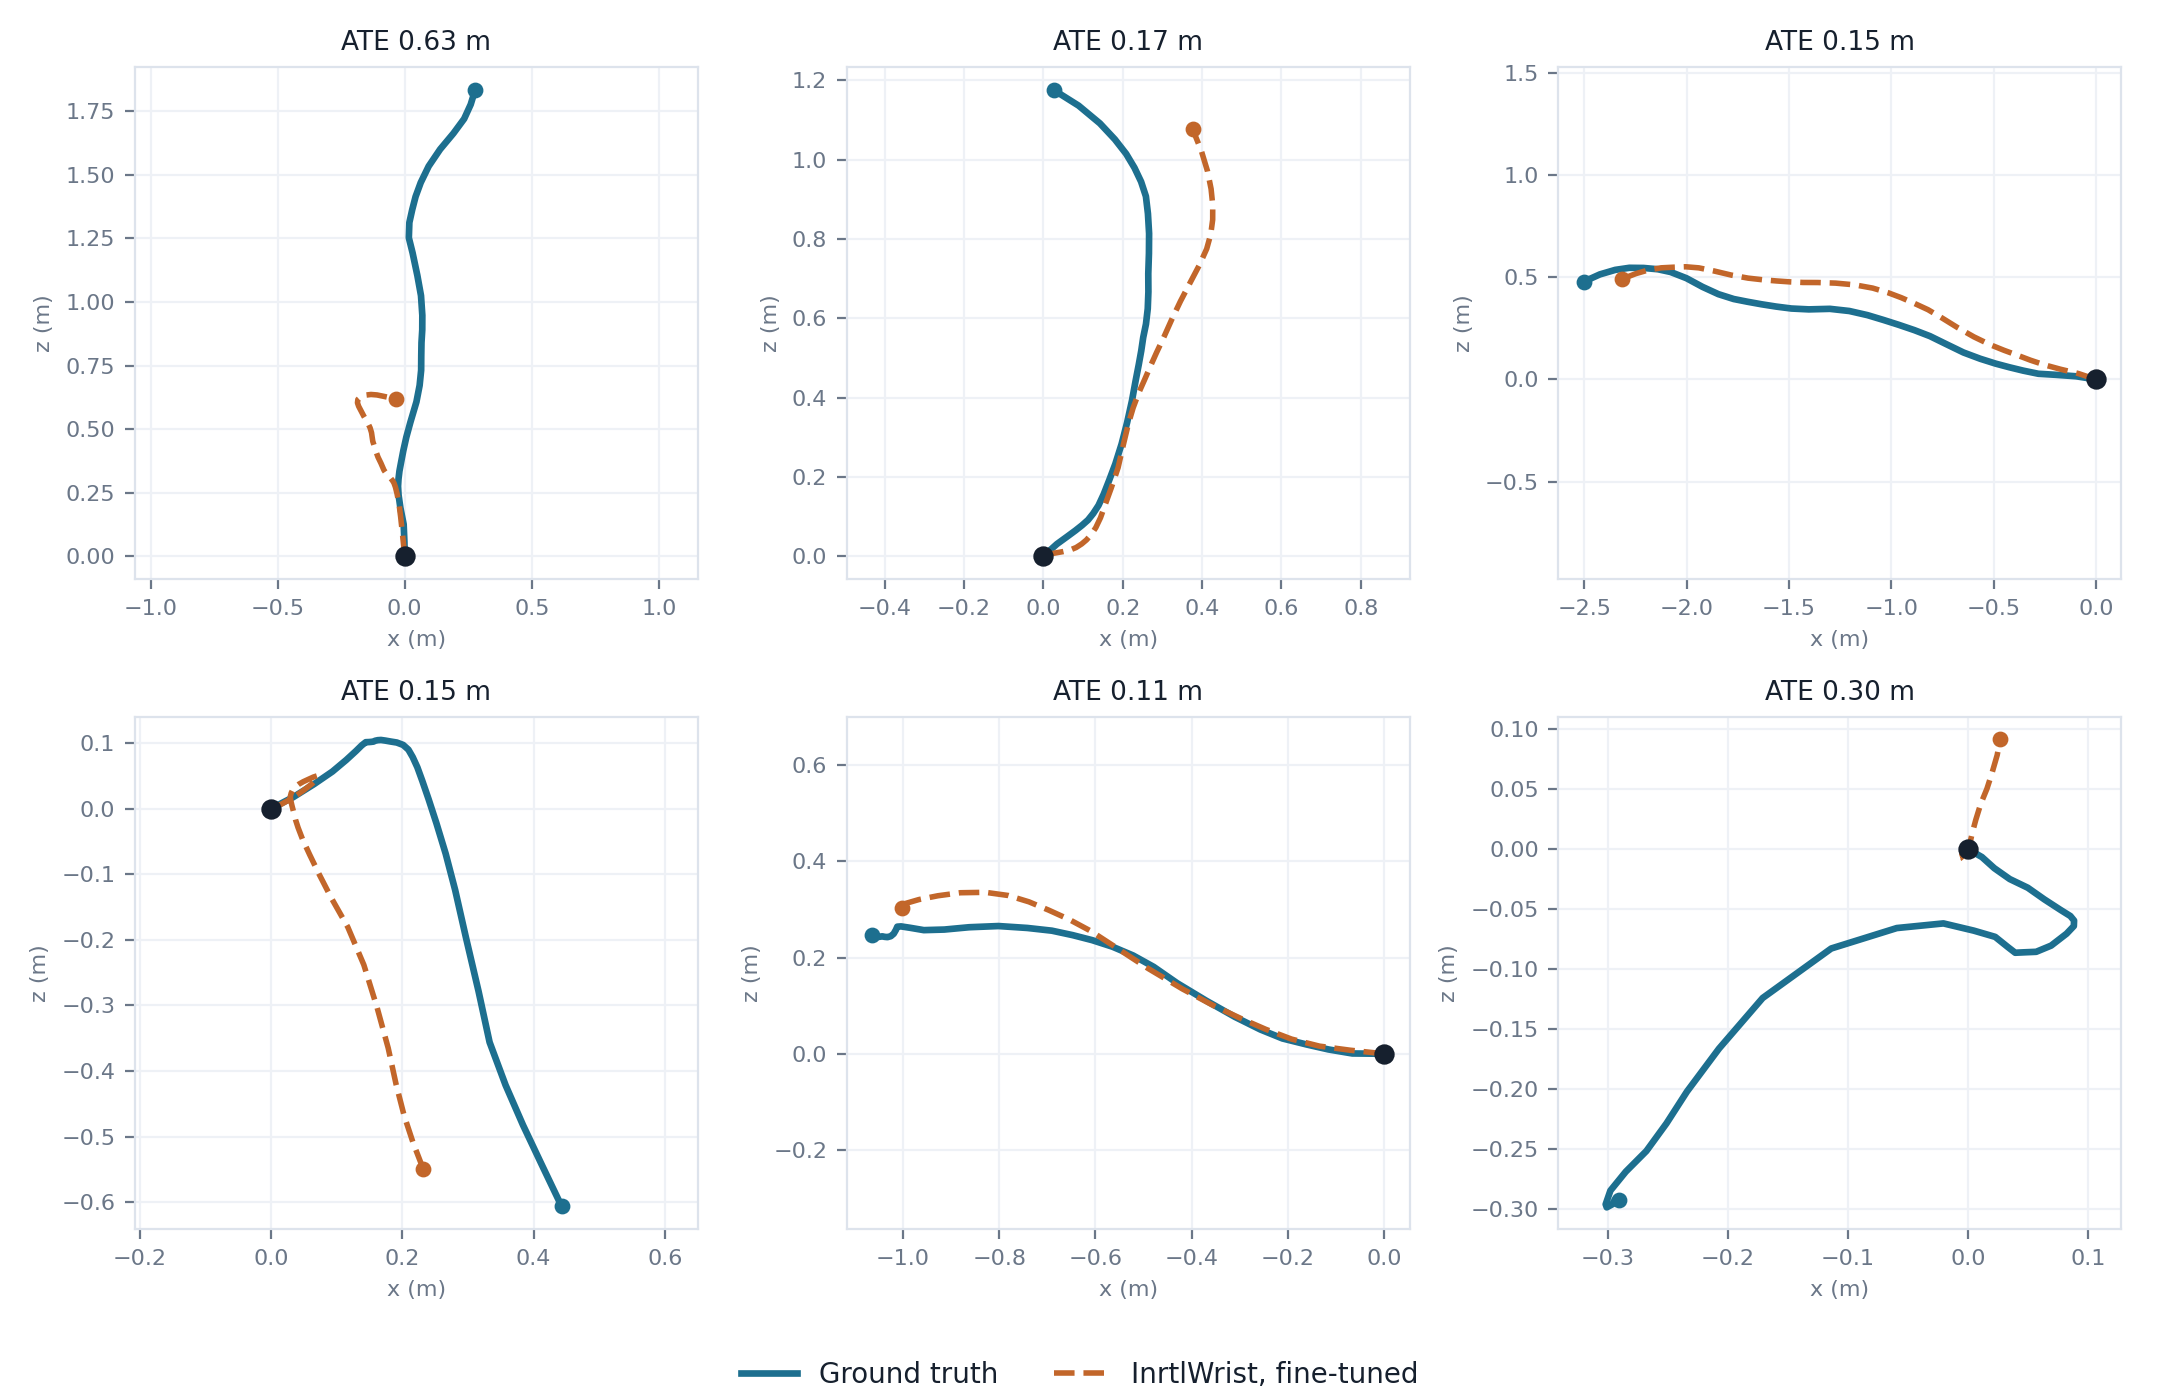
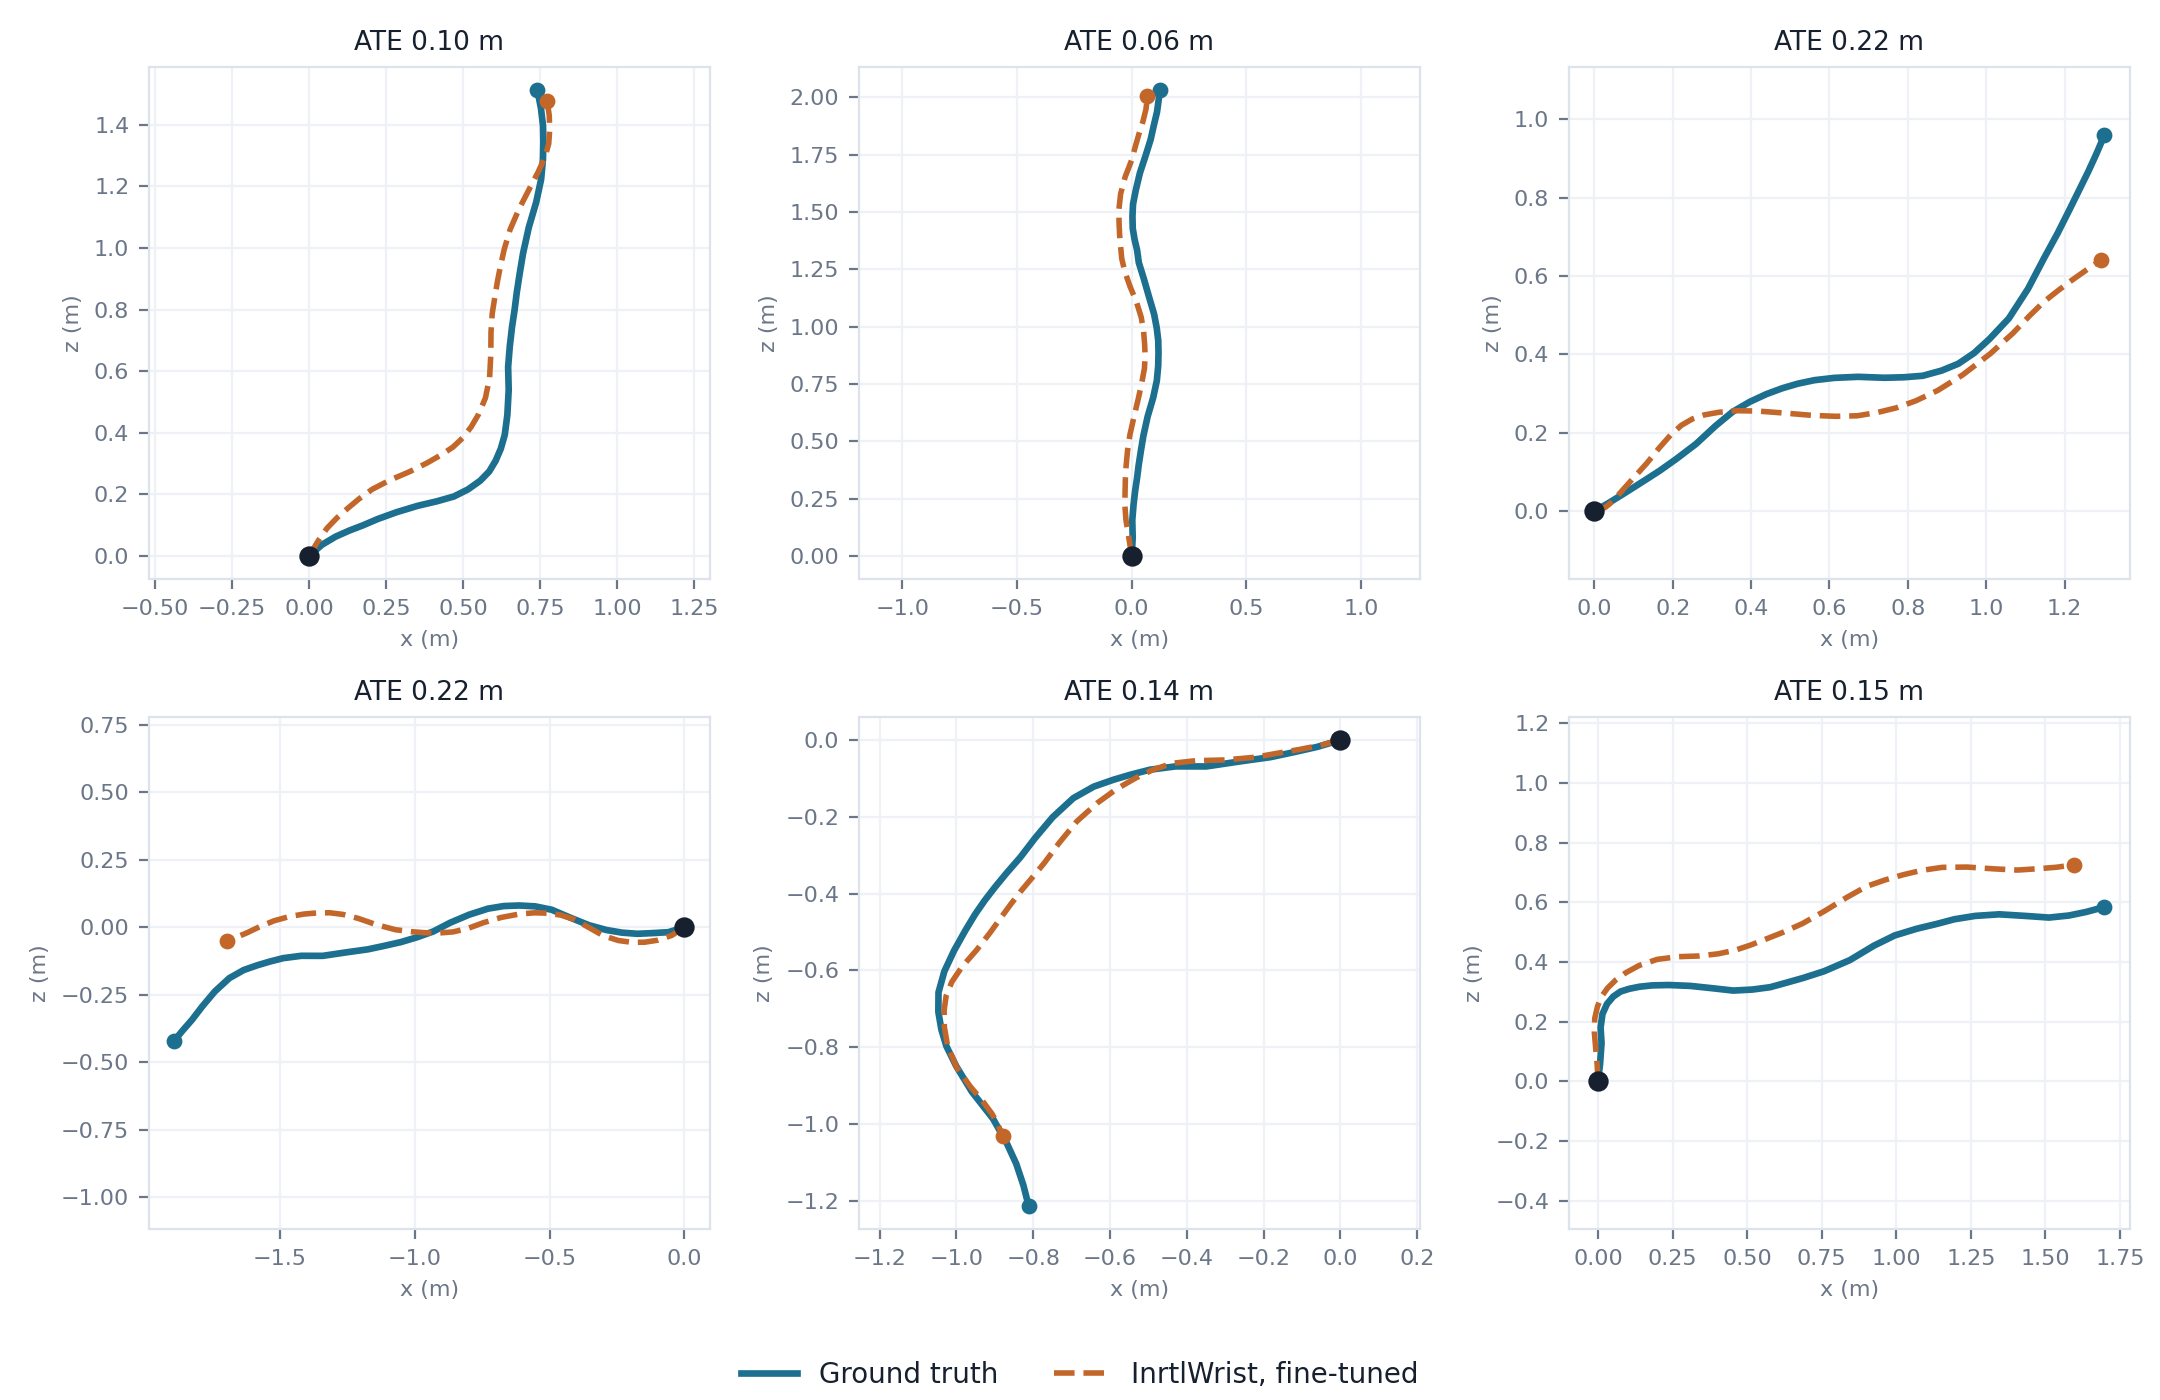
Odometry figure: low-error windows over four sessions, caption without the scratch curve; Figure 5 smaller

diff --git a/index.html b/index.html
@@ -17,7 +17,7 @@
   <link rel="preconnect" href="https://fonts.googleapis.com">
   <link rel="preconnect" href="https://fonts.gstatic.com" crossorigin>
   <link href="https://fonts.googleapis.com/css2?family=Bricolage+Grotesque:opsz,wght@12..96,500;12..96,600;12..96,700;12..96,800&family=IBM+Plex+Sans:wght@400;500;600&family=IBM+Plex+Mono:wght@400;500&display=swap" rel="stylesheet">
-  <link rel="stylesheet" href="./static/css/site.css?v=9">
+  <link rel="stylesheet" href="./static/css/site.css?v=10">
 </head>
 <body id="top">
 
@@ -500,8 +500,8 @@
         <figcaption><b>Full-body pose from one wrist.</b> Ground truth (teal) against the pose predicted by fine-tuned InrtlWrist (amber) for frames spread across four validation sessions, front and side views; the number above each frame is its mean joint error over the 23 joints. The pelvis orientation is taken from ground truth, as in the benchmark's metric. Click to enlarge.</figcaption>
       </figure>
       <figure class="paper-fig">
-        <img src="./static/images/odometry_windows.png" alt="Six top-down pelvis trajectories over 2.56-second validation windows: ground truth in teal, fine-tuned InrtlWrist in dashed amber and the from-scratch backbone in dotted grey, each with its absolute trajectory error.">
-        <figcaption><b>Inertial odometry.</b> Pelvis trajectory over 2.56 s windows, seen from above: ground truth (teal), fine-tuned InrtlWrist (dashed amber) and the same backbone trained from scratch (dotted grey). Predicted wrist-frame velocities are rotated into the world frame with the gyroscope-propagated initial orientation and integrated, exactly as the ATE metric does. Windows with above-median motion are shown. Click to enlarge.</figcaption>
+        <img src="./static/images/odometry_windows.png" alt="Six top-down pelvis trajectories over 2.56-second validation windows: ground truth in teal and fine-tuned InrtlWrist in dashed amber, each with its absolute trajectory error.">
+        <figcaption><b>Inertial odometry.</b> Pelvis trajectory over 2.56 s windows, seen from above: ground truth (teal) and fine-tuned InrtlWrist (dashed amber), each window labelled with its absolute trajectory error. Predicted wrist-frame velocities are rotated into the world frame with the gyroscope-propagated initial orientation and integrated, exactly as the ATE metric does. The six windows are drawn from the lowest-error quarter of the windows with above-median motion in four validation sessions; the benchmark mean over all 73,515 evaluation windows is 0.154 m. Click to enlarge.</figcaption>
       </figure>
     </div>
   </div>
@@ -561,7 +561,7 @@
         <h3>Pretraining data and motion coverage</h3>
         <p class="lede">Holding the architecture, probes and training budget fixed, we vary the amount and coverage of pretraining data: uniform draws from a five-source pool of 1,959,288 windows, or draws restricted to subsets of 1,000 motion clusters obtained by k-means on a separately trained MAE's features. At 50,000 updates, the 0.01% subsets trail the 0.1% subsets at every coverage level, while uniform draws from 0.1% to 100% of the pool perform alike. Increasing motion coverage generally improves performance, most when few clusters are available. These findings are conditional on the training budget and the sampling scheme, since restricting clusters also changes source composition.</p>
       </div>
-      <figure class="f-fig">
+      <figure class="f-fig fig-sm">
         <img src="./static/images/scaling_coverage.png" alt="Eight-probe mean against pretraining volume for different numbers of allowed motion clusters after 50,000 updates, normalized by the full pool's gain over a random encoder.">
         <figcaption>Figure 5. Motion coverage. Eight-probe mean after 50,000 updates. Per-probe changes from the full pool are normalized by its gain over random and clipped to &plusmn;100%. Click to enlarge.</figcaption>
       </figure>
@@ -697,6 +697,6 @@
   </div>
 </footer>
 
-<script src="./static/js/site.js?v=9"></script>
+<script src="./static/js/site.js?v=10"></script>
 </body>
 </html>

diff --git a/paper/index.html b/paper/index.html
@@ -16,7 +16,7 @@
   <link rel="preconnect" href="https://fonts.googleapis.com">
   <link rel="preconnect" href="https://fonts.gstatic.com" crossorigin>
   <link href="https://fonts.googleapis.com/css2?family=Bricolage+Grotesque:opsz,wght@12..96,500;12..96,600;12..96,700;12..96,800&family=IBM+Plex+Sans:wght@400;500;600&family=IBM+Plex+Mono:wght@400;500&display=swap" rel="stylesheet">
-  <link rel="stylesheet" href="../static/css/site.css?v=9">
+  <link rel="stylesheet" href="../static/css/site.css?v=10">
 </head>
 <body id="top">
 
@@ -330,6 +330,6 @@
   </div>
 </footer>
 
-<script src="../static/js/site.js?v=9"></script>
+<script src="../static/js/site.js?v=10"></script>
 </body>
 </html>
